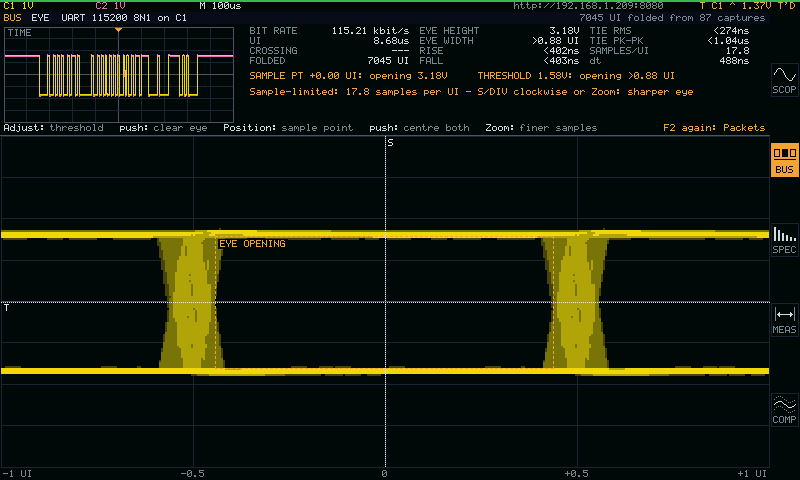
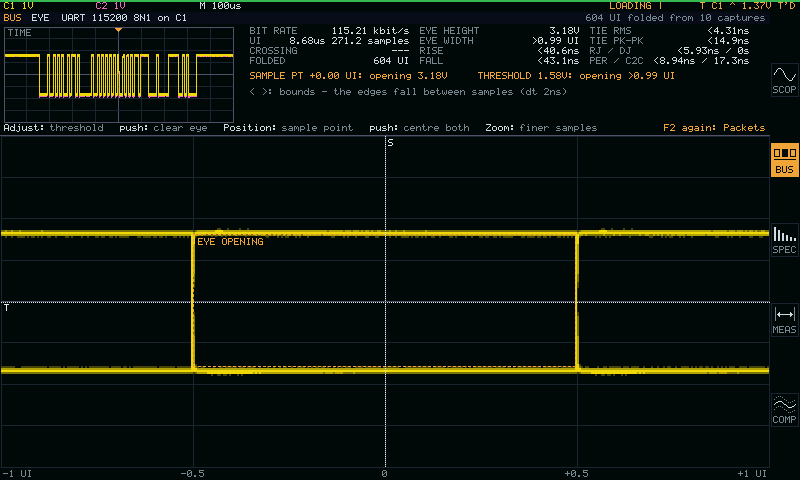
README and specs 07, 08: one eye and spectrum on both, DEFAULT SETUP
README: the web's BUS eye is drawn as on the scope with the same
figures; the live capture under Average, ERES and Precision holds 8,192
samples and the FFT 32,768 (full rate at 5 us/div and faster); the web's
BUS shows the scope's own stream. The screenshots of the scope, the web
and the remote are retaken on this firmware.

Spec 07: the eye's figures (RJ/DJ, period and cycle-to-cycle jitter),
that it folds sampled records and when it starts over, and that the web
draws the same picture; MEASURE's all values in two columns of nine in
the web's names and order, statistics only while MEASURE is shown, the
readout boxes under the same names. Spec 08: what DEFAULT SETUP puts
back and what stays (the screen saver, screen off and remote notices),
the VIEW tab's frequency-response channels and Clear, and RUN/STOP,
SINGLE and AUTO ending a web page's decoded capture first. Spec 06 drops
a date from the offset polarity check.

diff --git a/README.md b/README.md
@@ -53,7 +53,7 @@ next view, as on the scope.
 | ![Web SCOPE workspace](docs/images/web-scope.png) | ![Web SCOPE in X-Y: C1 against C2, a diagonal because both channels carry the same signal](docs/images/web-xy.png) |
 | **SCOPE** | **SCOPE again:** X-Y |
 | ![Web BUS workspace: the decoder, the packet table and the trigger on bytes](docs/images/web-bus.png) | ![Web BUS eye diagram with jitter analysis](docs/images/web-bus-eye.png) |
-| **BUS:** decoder, packet table, trigger on bytes | **BUS again:** eye diagram and jitter (it folds sampled records: here two full records) |
+| **BUS:** decoder, packet table, trigger on bytes | **BUS again:** the eye diagram and jitter, drawn as on the scope with the same figures |
 | ![Web SPECTRUM: FFT with peaks and THD](docs/images/web-spectrum.png) | ![Web spectrogram](docs/images/web-spectrogram.png) |
 | **SPECTRUM:** FFT, peaks, THD | **SPECTRUM again:** spectrogram |
 | ![Web MEASURE: statistics, cursors and the mask test](docs/images/web-measure.png) | ![Web MEASURE, All values: every measurement of both channels in this capture](docs/images/web-measure-all.png) |
@@ -108,7 +108,8 @@ anything on the scope's screen.
 * **Live min/max envelope:** the FPGA reduces the screen to 4,096 min/max points, so narrow events
   stay visible at any zoom. The points are put back in time order, so protocol decode, masks and
   trigger placement run on live frames too. Average, ERES and precision use a decimated live
-  capture instead (their filtering needs true samples); eye diagram and super-resolution read raw
+  capture of 8,192 samples instead (their filtering needs true samples; the FFT takes 32,768, full
+  rate at 5 µs/div and faster); eye diagram and super-resolution read raw
   samples while in use.
 * **Roll mode.** In AUTO at 10 ms/div and slower the view scrolls instead of waiting for a
   trigger. By default it is built from back-to-back decimated captures, so a timebase change
@@ -193,7 +194,7 @@ automatically.
 * **Phone remote** at `/r` on port 8080: settings, workspaces and keys from a phone (below).
 * **Web UI** on port 8080 in any browser, with WebGL rendering and every feature above. It is laid
   out as the scope's five task workspaces: SCOPE, BUS (decode with a packet table, trigger on bytes,
-  eye diagram), SPECTRUM (FFT, harmonics and THD, spectrogram, Bode), MEASURE (statistics, cursors,
+  eye diagram, the scope's own stream), SPECTRUM (FFT, harmonics and THD, spectrogram, Bode), MEASURE (statistics, cursors,
   mask test) and COMPARE (references, math, difference readout, stacked master). Alt+1 to Alt+5
   switch, and the shown workspace's key again shows its next view. A strip with run control,
   timebase, channels and trigger stays at the bottom, and All settings (Ctrl+,) lists every setting

diff --git a/specs/08-front-panel.md b/specs/08-front-panel.md
@@ -382,7 +382,13 @@ fail the push clears the mask (the sheet's Mask test turns a test off and keeps 
 mask row removes it at any time, as does a web page's Clear mask). Clearing turns the test off, zeroes
 its counts and captured failures, and stops a mask build or master under way. AUTO and DEFAULT SETUP
 close any menu and keep the workspace, which re-applies its entry behaviour; DEFAULT SETUP also clears
-the mask and the serial trigger's match bytes (no bytes, any I2C address and direction).
+the mask and the serial trigger's match bytes (no bytes, any I2C address and direction), puts the mask
+build's frames and tolerance, super-res's channel, grid, stop and target, the averaging count (16),
+ERES length (1), precision rate (31.25 MSa/s), roll mode (chunked), the FFT source (C1), the master
+depth (64) and the stream's stop (on an error) back, chooses no measurement (MEASURE then measures Vpp
+and Freq), and turns the frequency response off on C1 / C2 with its points forgotten. The screen saver,
+screen off and remote notices are the instrument's preferences and stay. The VIEW tab chooses the frequency
+response's reference and DUT channels (picking the other's channel swaps them) and clears its points.
 
 ### 7.2 Settings sheets (a menu open)
 
@@ -421,9 +427,9 @@ pushes theirs (Variable, Zero, Zoom). ADJUST and HORIZ POSITION are each workspa
 | CH1 / CH2 POSITION push (Zero) | `0x64`:1, `0x67`:1 | offset back to 0 V |
 | TRIG LEVEL knob | `0x64`:14/15 | step the level code → `SetTrigLevel(code)` (the **4-write quad + re-arm** at the Arm boundary, §8.4) |
 | TRIG LEVEL push (Zero) | `0x64`:9 | the level to 0 V |
-| RUN/STOP | `0x65`:2 | toggle running → `SetRunning` (a decoded stream: stop / restart it) |
-| SINGLE | `0x65`:10 | Normal, one triggered capture, then stop |
-| AUTO | `0x67`:10 | autoset (a second press cancels the sweep) |
+| RUN/STOP | `0x65`:2 | toggle running → `SetRunning` (a decoded stream: stop / restart it; a web page's decoded capture: end it first) |
+| SINGLE | `0x65`:10 | Normal, one triggered capture, then stop (a web page's decoded capture ends first) |
+| AUTO | `0x67`:10 | autoset (a second press cancels the sweep; a web page's decoded capture ends first) |
 
 Workspace tools (no menu open):
 

diff --git a/specs/07-display-and-rendering.md b/specs/07-display-and-rendering.md
@@ -668,14 +668,20 @@ active key's next view in amber at its right end (`F2 again: Eye diagram`); an a
   768 px; labels `-1 UI -0.5 0 +0.5 +1 UI`), the 8 divisions in 2-px rows; the fold's density in four
   shades mixed from the data line's channel colour over the screen colour; the eye opening as a dashed
   amber box; the sample-point (`S`) and threshold (`T`) cursors dotted in `colCursor`. The pane has
-  a small live time trace and the figures (bit rate, UI, crossing, UI folded, eye height and width,
-  rise, fall, TIE rms and pk-pk, samples per UI, dt) with `<`/`>` on bounds when the edges fall
-  between samples, and a warning when sample-limited.
+  a small live time trace and the figures (bit rate to five figures, UI with its samples per UI,
+  crossing, UI folded, eye height and width, rise, fall, TIE rms and pk-pk, RJ / DJ, period and
+  cycle-to-cycle jitter) with `<`/`>` on bounds when the edges fall between samples, and a warning
+  when sample-limited. The eye folds sampled records (it leases the decode view's samples, not the
+  envelope's), every sample of a fast bus; it starts over when its settings change, or when three
+  captures in a row are off its clock period. The web's eye draws the same picture with the same figures in the same order (one engine:
+  the JS eye and its Go port agree step for step).
 - **SPECTRUM:** a small time trace, the peak table (frequency, level dBV, level against the top
   peak, harmonic) in frequency order, a readout (top peak, THD), the marker line; the plot shows the
   marker as a dotted amber line with a triangle on its level and a label, and a dim delta reference.
 - **MEASURE:** the statistics table (now, mean, min, max, sdev, N), or all values of both channels in
-  two columns, and the cursor block.
+  two columns of nine (the 18 parameters, preshoot included, in the web's names and order), and the
+  cursor block. The statistics count only while MEASURE is shown, as on the web. The readout boxes drawn
+  over the trace in the other workspaces use the same names and figures.
 - **COMPARE:** five rows (MASTER, REF A, REF B, MASK, MATH); the selected row's action is written at
   its right end; a stacking master shows a progress bar.
 

diff --git a/specs/06-vertical-and-analog.md b/specs/06-vertical-and-analog.md
@@ -251,7 +251,7 @@ code = clamp( round( zero + K · V ) )
     constant across every V/div setting in the tier.
   - **Sensitive tier (V/div ≤ 200 mV):** **K ≈ 4392 codes/V** — about 45× steeper.
 - **Display offset polarity:** a *positive* offset yields a *higher* code (the trace moves *up*); `0 V` programs
-  exactly `zero`. Live checks on 2026-09-24 at 2 V/div showed that reducing the DAC code by 100
+  exactly `zero`. Live checks at 2 V/div showed that reducing the DAC code by 100
   moved CH1 down 12.38 ADC counts and CH2 down 13.53 counts. This corrects the earlier inverted
   sign claim; it does not qualify the sensitive tier.
 
